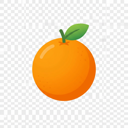
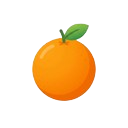
fix

diff --git a/README.md b/README.md
@@ -1,7 +1,4 @@
-<p align="center">
-  <img src="icons/icon128.png" width="52" height="52" alt="PageGuide Icon" style="vertical-align:middle; margin-right:12px;" />
-  <span style="font-size:2.2em; font-weight:300; letter-spacing:-0.5px; vertical-align:middle;">PageGuide</span>
-</p>
+<h1 align="center"><img src="icons/icon128.png" width="48" height="48" alt="" /> &nbsp;PageGuide</h1>
 <p align="center"><i>AI Web Assistant for Chrome & Edge</i></p>
 <p align="center">A Chrome extension that makes browsing <b>Safe</b> 🛡️, <b>Smart</b> 🧠, and <b>Efficient</b> 🚀</p>
 